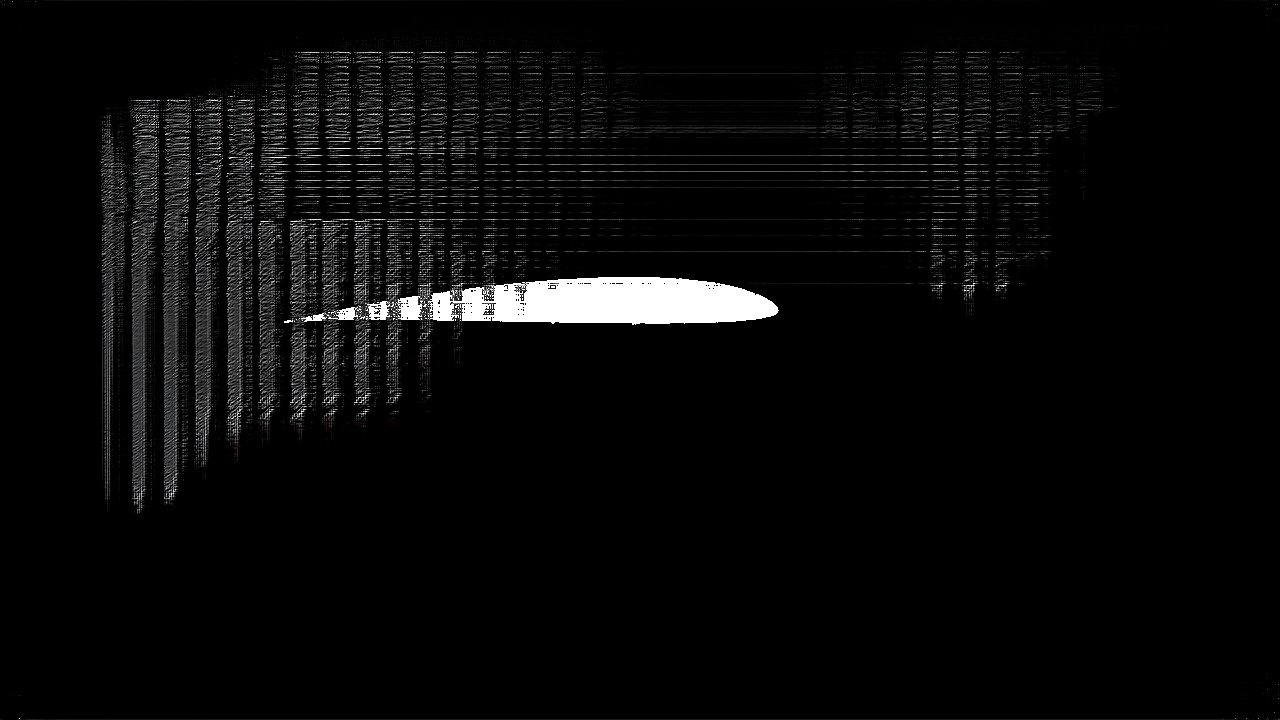
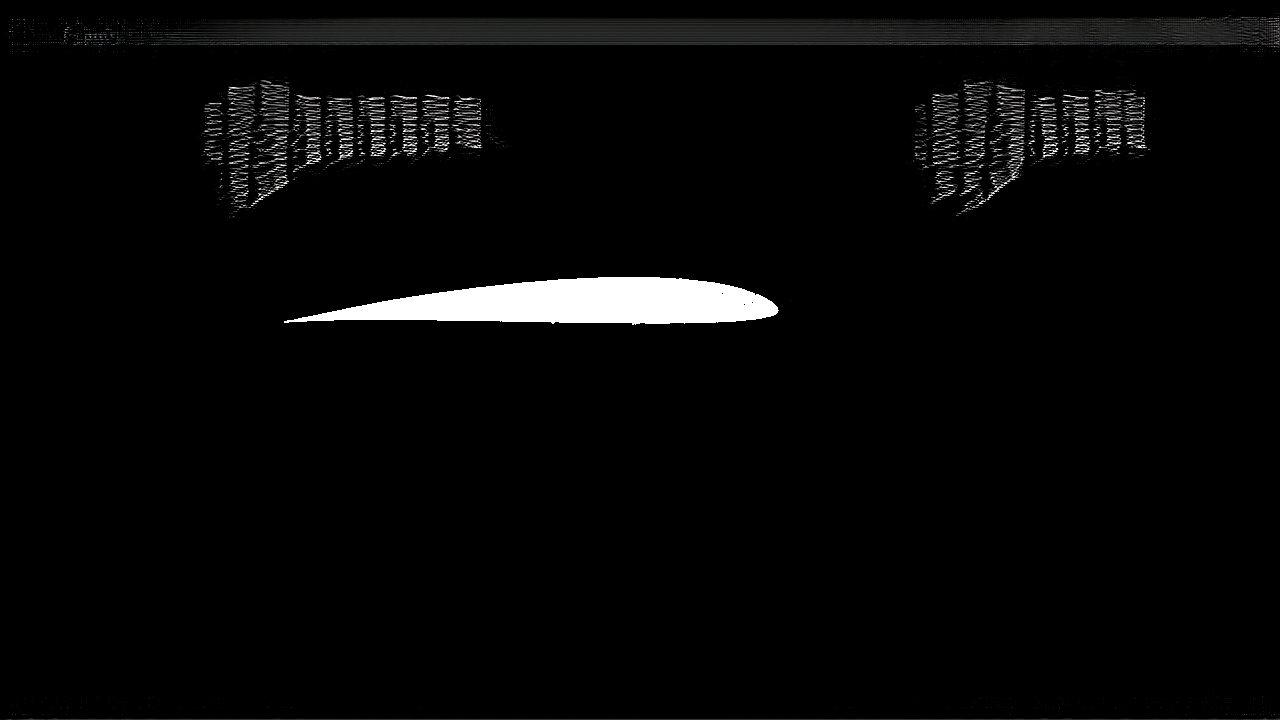
fix composite

Changed region(s): [[0.0312, 0.0, 1.0, 0.7028]]

diff --git a/src/inference_paired.py b/src/inference_paired.py
@@ -83,28 +83,51 @@ if __name__ == "__main__":
           # 3. Run inference
           output_image = model(c_t, args.prompt)
 
-    # --- COMPOSITING STEP ---
+    # --- EXPERIMENTAL COMPOSITING STEP ---
     flow_only_pil = transforms.ToPILImage()(output_image[0].cpu() * 0.5 + 0.5)
-    # This part correctly merges the generated flow onto the original input
     input_cv = cv2.imread(args.input_image)
     flow_cv = cv2.cvtColor(np.array(flow_only_pil), cv2.COLOR_RGB2BGR)
 
     h, w, _ = input_cv.shape
     flow_cv = cv2.resize(flow_cv, (w, h))
 
-    # Create a mask of the non-black pixels in the flow image
-    gray_flow = cv2.cvtColor(flow_cv, cv2.COLOR_BGR2GRAY)
-    mask = gray_flow > 0
+    # 1. Isolate the airfoil from the input image
+    gray_input = cv2.cvtColor(input_cv, cv2.COLOR_BGR2GRAY)
+    _, airfoil_mask = cv2.threshold(gray_input, 10, 255, cv2.THRESH_BINARY)
 
-    # Create a copy of the input image to draw on
-    final_image = input_cv.copy()
+    # 2. Define the "flow zone" by expanding (dilating) the airfoil shape
+    # You can make the kernel larger (e.g., (15,15)) to expand the zone further
+    kernel = np.ones((5, 5), np.uint8)
+    dilated_mask = cv2.dilate(airfoil_mask, kernel, iterations=5)
+    # The flow zone is the area in the dilated mask that is NOT the airfoil itself
+    flow_zone_mask = cv2.subtract(dilated_mask, airfoil_mask)
+
+    # 3. Isolate the misplaced flow generated by the model
+    gray_flow = cv2.cvtColor(flow_cv, cv2.COLOR_BGR2GRAY)
+    _, generated_flow_mask = cv2.threshold(gray_flow, 10, 255, cv2.THRESH_BINARY)
     
-    # Where the mask is true (i.e., where the flow is), replace the pixels
-    # with the pixels from the flow image.
-    final_image[mask] = flow_cv[mask]
+    # "Cut" the flow pixels from the generated image
+    source_pixels = flow_cv[generated_flow_mask > 0]
+
+    # 4. Create a new image by pasting the airfoil onto a black canvas
+    final_image = np.zeros_like(input_cv)
+    final_image[airfoil_mask > 0] = input_cv[airfoil_mask > 0]
+    
+    # 5. "Paste" the cut flow pixels into the defined flow zone
+    if len(source_pixels) > 0:
+        target_coords = np.argwhere(flow_zone_mask > 0)
+        
+        # If we have more target spots than source pixels, repeat the source pixels
+        num_repeats = int(np.ceil(len(target_coords) / len(source_pixels)))
+        pasted_pixels = np.tile(source_pixels, (num_repeats, 1))[:len(target_coords)]
+        
+        # Shuffle the pixels for a more random placement
+        np.random.shuffle(pasted_pixels)
+        
+        # Place the pixels onto the final image
+        final_image[target_coords[:, 0], target_coords[:, 1]] = pasted_pixels
 
     # --- SAVE THE FINAL COMPOSITE IMAGE ---
-    # Save the merged image with a new name
     composite_filename = bname.replace('.png', '_composite.png')
     cv2.imwrite(os.path.join(args.output_dir, composite_filename), final_image)
     
